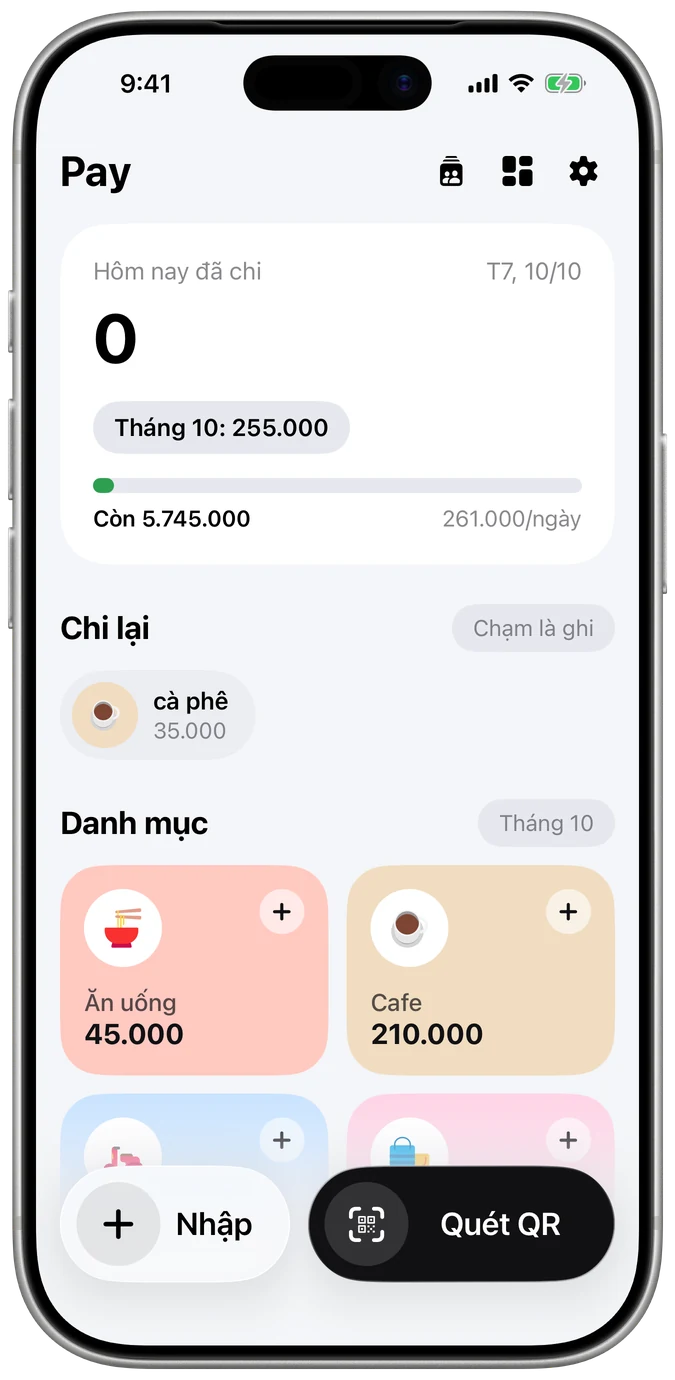
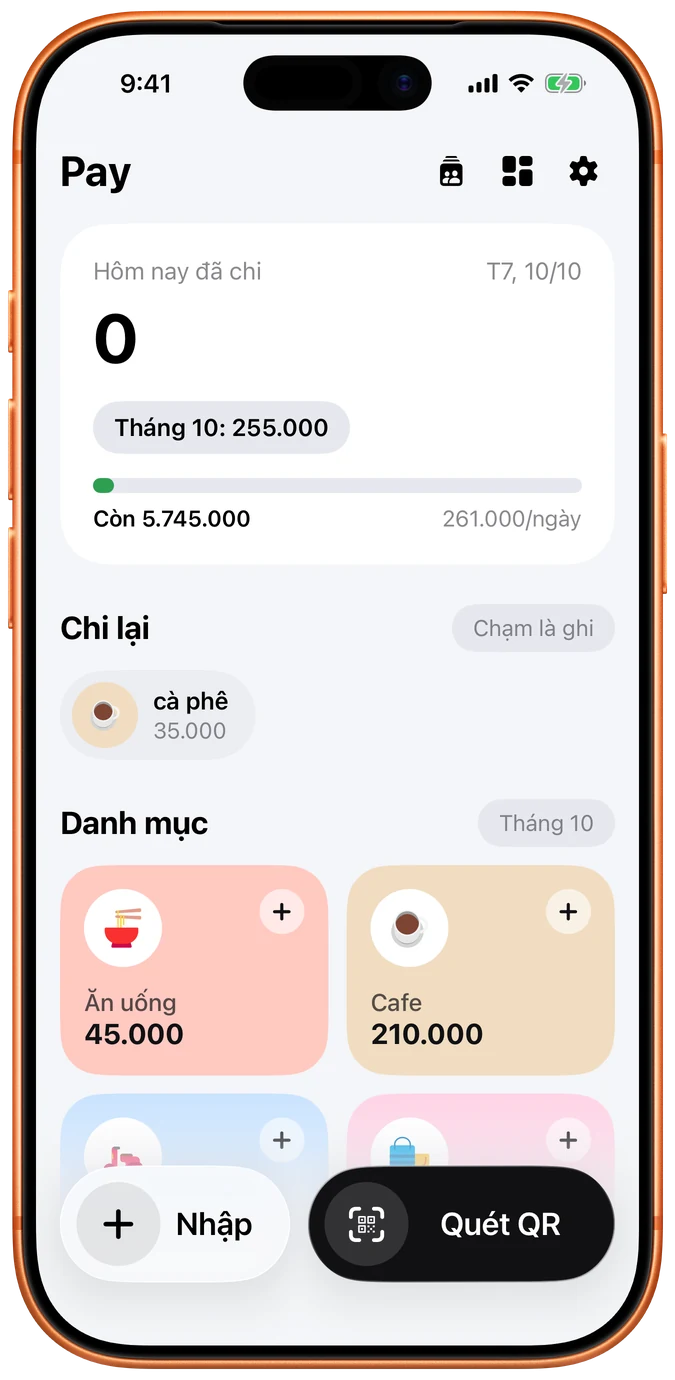
Trang giới thiệu Pay: khung iPhone 17 Pro màu Cam Vũ Trụ

Changed region(s): [[0.0, 0.0312, 0.9644, 0.9971], [0.0933, 0.0, 0.9956, 0.9348]]

diff --git a/web/pay/index.html b/web/pay/index.html
@@ -86,7 +86,7 @@ footer { padding: 40px 0 60px; color: var(--muted); font-size: 14px; border-top:
       </div>
       <div class="note" id="signinNote">Đăng nhập bằng Apple ID để dùng Nhóm chung trên web, kể cả máy Android hay Windows.</div>
     </div>
-    <img class="iphone" src="iphone-home.webp" width="675" height="1380" alt="Màn hình chính của Pay trên iPhone 17 Pro">
+    <img class="iphone" src="iphone-home.webp?v=2" width="675" height="1380" alt="Màn hình chính của Pay trên iPhone 17 Pro">
   </header>
 </div>
 
